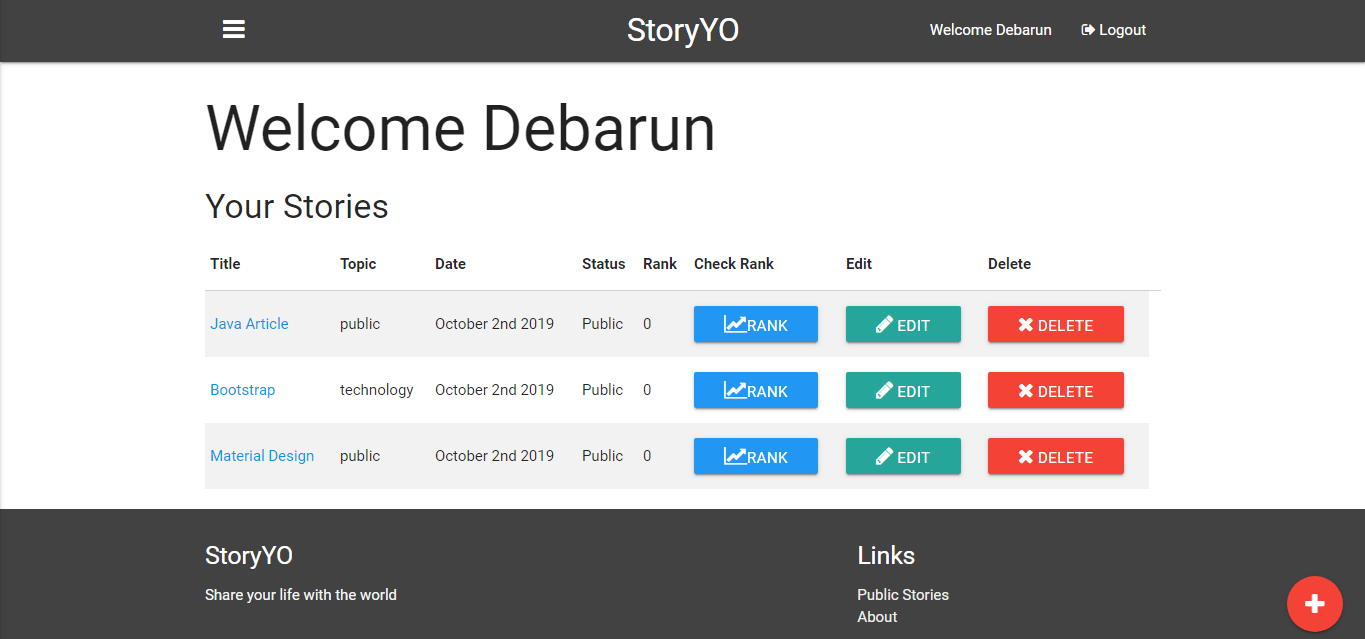
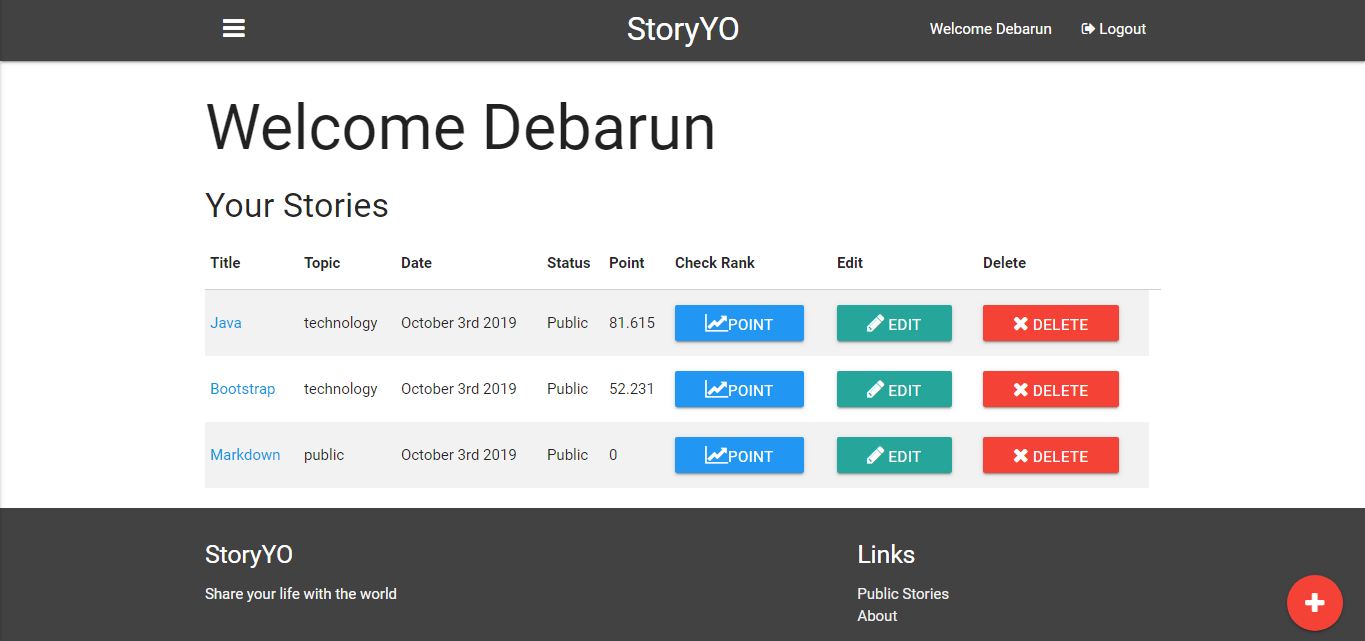
storyYO modification

diff --git a/StoryYO/routes/stories.js b/StoryYO/routes/stories.js
@@ -39,14 +39,11 @@ router.get('/rank/:id',(req,res)=>{
     _id:req.params.id
   }).populate('user').then((story) => {
     let analysis=new Article(sId,story.body,story.title,story.topic);
-    //let contentCheck=analysis.contentCheck();
-  //  graSpell.then((value) => {console.log(value);});
-  console.log(story.id);
     let wordSen=analysis.wordSentences();
     let newWord=analysis.newWord();
     let getErr=analysis.getMistakes();
     let graSpell=analysis.grammerAndSpellCheck();
-    console.log('first:'+graSpell);
+    //console.log('first:'+graSpell);
     //console.log(getErr[0]);
     res.render('stories/rank',{
       story:story,
@@ -58,7 +55,17 @@ router.get('/rank/:id',(req,res)=>{
 });
 
 //save article points
-
+router.put('/point/:id/:point', (req,res)=>{
+  Story.findOne({
+    _id:req.params.id
+  }).then((story) => {
+    //new values
+    story.point=req.params.point;
+    story.save().then(story=>{
+      res.redirect('/dashboard');
+    });
+  });
+});
 
 
 //edit stories
@@ -124,7 +131,7 @@ router.put('/:id',(req,res)=>{
 
 //delete story from db
 router.delete('/:id',(req,res)=>{
-  Story.remove({_id:req.parems.id}).then(()=>{
+  Story.remove({_id:req.params.id}).then(()=>{
     res.redirect('/dashboard');
   });
 });

diff --git a/StoryYO/app.js b/StoryYO/app.js
@@ -25,7 +25,7 @@ const keys = require('./config/keys');
 
 //helper handlebars
 const {
-  truncate,stripTags,formatDate,select,wordNo,senNo,paragraphNo,eachProperty,readingTime,speakingTime,point,promiseHandle
+  truncate,stripTags,formatDate,select,wordNo,senNo,paragraphNo,eachProperty,readingTime,speakingTime,articlePoint,promiseHandle
 }=require('./helpers/hbs')
 
 // Map global promises
@@ -57,7 +57,7 @@ app.engine('handlebars', exphbs({
     eachProperty:eachProperty,
     readingTime:readingTime,
     speakingTime:speakingTime,
-    point:point,
+    articlePoint:articlePoint,
     promiseHandle:promiseHandle
   },
   defaultLayout:'main'

diff --git a/StoryYO/helpers/hbs.js b/StoryYO/helpers/hbs.js
@@ -52,7 +52,7 @@ module.exports = {
     let time=(words[1]/130)*60;
     return time.toFixed(2);
   },
-  point:function(data){
+  articlePoint:function(data){
     let point=data.split(':');
     return point[3];
   },

diff --git a/StoryYO/public/css/style.css b/StoryYO/public/css/style.css
@@ -37,6 +37,9 @@ footer{
   padding:20px;
   font-weight: 100px;
 }
+.pointSection{
+  height: 300px;
+}
 .content-value{
   font-size: 15px;
   padding:20px;
